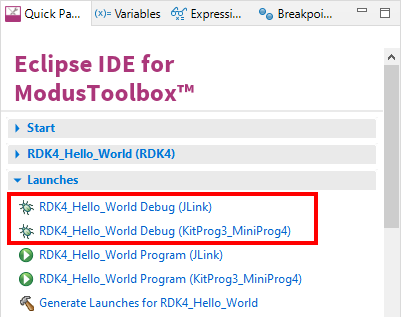
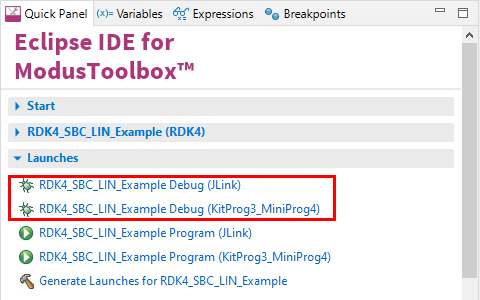
README updates.

Changed region(s): [[0.0, 0.0, 1.0, 0.99]]

diff --git a/README.md b/README.md
@@ -1,10 +1,12 @@
-# RDK4 Hello World
+# RDK4 TLE9262-3BQX LIN Example
 
-Rutronik Development Kit 4 Programmable System-on-Chip CY8C4149AZE-S598 "Hello World" Code Example. 
+Rutronik Development Kit 4 Programmable System-on-Chip CY8C4149AZE-S598 "System Basis Chip Local Interconnect Network" Code Example. 
 
-This example is an introduction to the basic components of the board: LEDs, User Button 1 and KitProg3 UART for debug.
+This code example demonstrates a LIN 2.2 ISO17987 connectivity using TLE9262-3BQX System Basis Chip. 
 
- <img src="images/rdk4_top.jpg" style="zoom:25%;" />
+This code example project has derived from the "[PSoC™ 4: Basic LIN slave example in MTB](https://github.com/Infineon/mtb-example-psoc4-lin-slave)". 
+
+<img src="images/rdk4_top.jpg" style="zoom:25%;" />
 
 ## Requirements
 
@@ -13,21 +15,66 @@ This example is an introduction to the basic components of the board: LEDs, User
 ### Using the code example with a ModusToolbox™ IDE:
 
 1. Import the project: **File** > **Import...** > **General** > **Existing Projects into Workspace** > **Next**.
-2. Select the directory where **"RDK4_Hello_World"** resides and click  **Finish**.
+2. Select the directory where **"RDK4_SBC_LIN_Example"** resides and click  **Finish**.
 3. Update the libraries using a **"Library Manager"** tool.
 4. Select and build the project **Project ** > **Build Project**.
 
 ### Operation
 
-The firmware example uses KitProg3 Debug UART for debug output. A Blue LED or Red LED is selected to blink once per second as a button USER_BTN1 is pressed once. Also LEDs are changed if any key code is sent to the terminal. Use your preferred terminal software to track the debug output or simply load a ModusToolbox™ native "Terminal" tool.
+The third party software "[LIN Serial Analyzer v3.0.0](https://www.microchip.com/en-us/software-library?swsearch=LIN Serial Analyzer v3.0.0#)" and the PC adapter "[APGDT001 LIN SERIAL ANALYZER](https://www.microchip.com/en-us/development-tool/APGDT001)" was used to demonstrate the RDK4 LIN Slave.
 
-<img src="images/debug_output_hello_world.png" style="zoom:100%;" />
+The software must be configured to work with 19.2 kbit/s baud rate, what is a maximum baud rate of the LIN 2.2.
+
+<img src="images/LIN_Analyzer_Configuration.png" style="zoom:100%;" />
+
+Please add the frames as it is shown below and set the "Enhanced Checksum Type".
+
+```
+10 00 FF FF FF FF FF FF FF
+10 11 FF FF FF FF FF FF FF
+10 22 FF FF FF FF FF FF FF
+10 33 FF FF FF FF FF FF FF
+11
+```
+
+<img src="images/LIN_Serial_Analyzer_Debug_Tool.png" style="zoom:100%;" />
+
+If the firmware is already programmed into the RDK4 and LIN is connected to the APGDT001 adapter as well as  the "Battery" power supply , the commands can be transmitted by pressing "Send Once or Send Continuous".
+
+The first bite controls the RDK4 LEDs as it is shown below:
+
+| Command | Slave response            |
+| ------- | ------------------------- |
+| 0x11    | Turns on LED1 (Red LED)   |
+| 0x22    | Turns on LED2 (Green LED) |
+| 0x33    | Turns on LED3 (Blue LED)  |
+| 0x00    | Turns off all LEDs        |
+
+The LIN configuration in ModusToolbox IDE is done using a tool called "LIN Configurator". 
+
+The LIN baud rate and protocol is configured as it is shown in a figure below:
+
+<img src="images/LIN_Configurator_General.png" style="zoom:100%;" />
+
+The LIN Frames are configured as it is shown in a figure below:
+
+<img src="images/LIN_Configurator_Frames.png" style="zoom:100%;" />
+
+The LIN Signals are configured as it is shown in a figure below:
+
+<img src="images/LIN_Configurator_Signals.png" style="zoom:100%;" />
+
+The LIN wire and LIN RX signal are shown in figures below:
+
+<img src="images/lin_wire.png" style="zoom:100%;" />
+
+<img src="images/lin_rx.png" style="zoom:100%;" />
 
 ### Debugging
 
 If you successfully have imported the example, the debug configurations are already prepared to use with a the KitProg3, MiniProg4, or J-link. Open the ModusToolbox™ perspective and find the Quick Panel. Click on the desired debug launch configuration and wait for the programming to complete and the debugging process to start.
 
-<img src="images/hello_world_debug_start.png" style="zoom:100%;" />
+<img src="images/debug_start.png" style="zoom:100%;" />
 
 ## Legal Disclaimer
 
